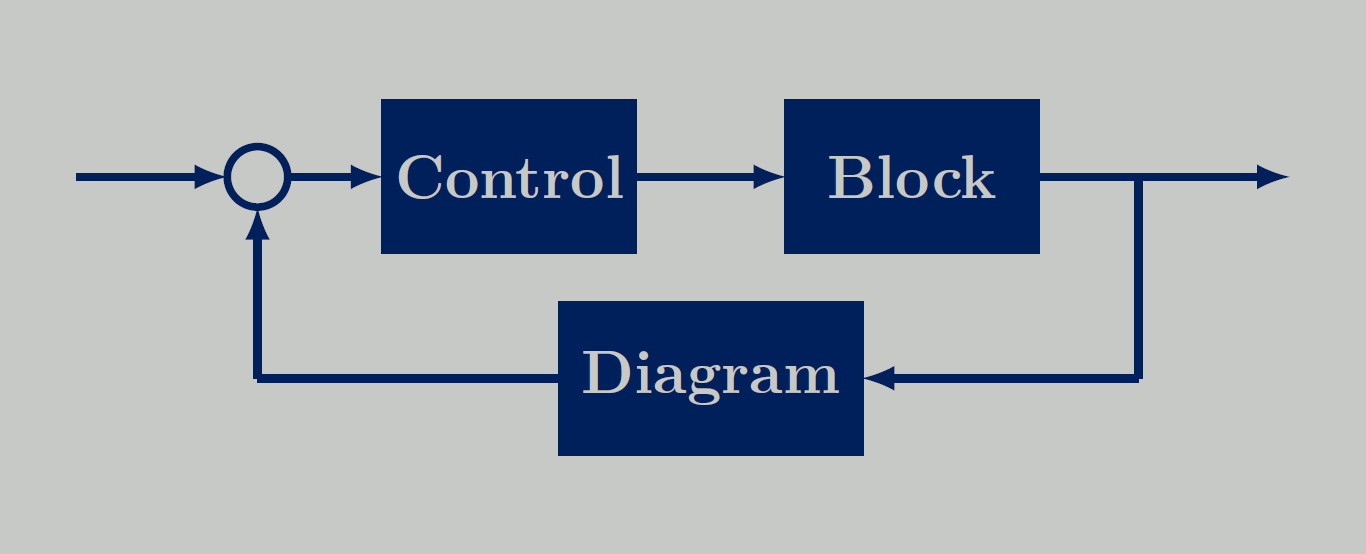
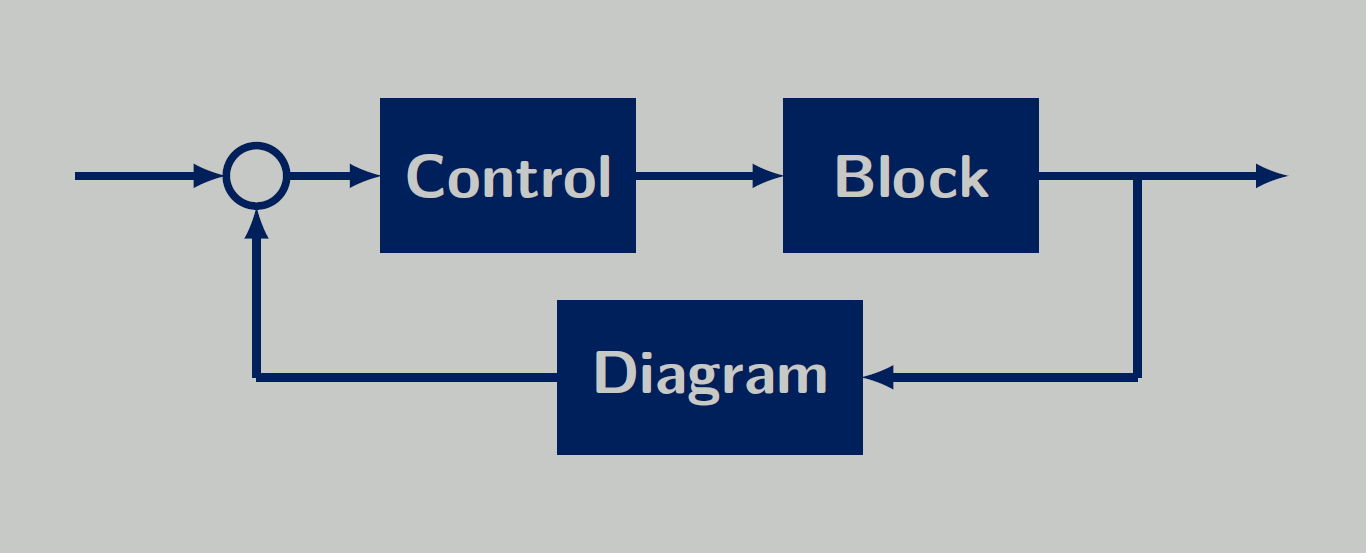
font changeable

diff --git a/control_block_diagram/components/text/text.py b/control_block_diagram/components/text/text.py
@@ -58,18 +58,20 @@ class Text(Component):
         # set the configuration of the text
         self._color = text_configuration.get('text_color', self._configuration['text_color'])
         self._font_size = text_configuration.get('fontsize', self._configuration['fontsize'])
+        self._font = text_configuration.get('font', self._configuration['font'])
         self._rotate = text_configuration.get('rotate', 0)
         self._options = {'align': 'center', 'text width': str(self._size[0]) + 'cm', 'text': self._color,
-                         'font': self._font_size, 'rotate': self._rotate}
+                         'font': self._font_size + self._font, 'rotate': self._rotate}
 
     def define(self, **kwargs):
         """Function to change position and visual representation of the text afterwards"""
         self._position = kwargs.get('position', self._position)
         self._size = kwargs.get('size', self._size)
         self._font_size = kwargs.get('fontsize', self._font_size)
+        self._font = kwargs.get('font', self._font)
         self._rotate = kwargs.get('rotate', self._rotate)
         self._options = {'align': 'center', 'text width': str(self._size[0]) + 'cm', 'text': self._color,
-                         'font': self._font_size, 'rotate': self._rotate}
+                         'font': self._font_size + self._font, 'rotate': self._rotate}
 
         top = self._position[1] + self._size[1] / 2
         self._text_position = [TikZCoordinate(self._position.x, top - (i + 1) / (self._len_text + 1) * self._size[1])
@@ -106,4 +108,5 @@ class Text(Component):
         """Funtion to add the Latex code to the Latex document"""
         for text, pos in zip(self._text, self._text_position):
             if text != '':
+                print(self._options['font'])
                 pic.append(TikZNode(text=text, at=pos, handle='box', options=TikZOptions(**self._options)))

diff --git a/control_block_diagram/control_diagram.py b/control_block_diagram/control_diagram.py
@@ -46,6 +46,7 @@ class ControllerDiagram:
         self._configuration['line_width'] = self._configuration_input.get('line_width', 'thick')
         self._configuration['line_style'] = self._configuration_input.get('line_style', 'solid')
         self._configuration['fontsize'] = self._configuration_input.get('fontsize', r'\normalsize')
+        self._configuration['font'] = self._configuration_input.get('font', r'')
         self._configuration['text_color'] = self._configuration_input.get('text_color',
                                                                           self._configuration['text_color'])
 

diff --git a/README.md b/README.md
@@ -14,7 +14,7 @@ usual building blocks, i.e., PI-Controllers, Adders, Multiplier. It is also poss
 define own blocks. 
 
 ## Getting Started
-A basic routine is as simple as
+A basic routine is as simple as:
 ```py
 from control_block_diagram import ControllerDiagram
 from control_block_diagram import Point, Box, Connection
@@ -26,6 +26,7 @@ if __name__ == '__main__':
     box_control = Box(Point(0, 0), text='Control')
     box_block = Box(box_control.position.add_x(3), text='Block')
     box_diagram = Box(box_block.position.add_x(3), text='Diagram')
+
     Connection.connect(box_control.output, box_block.input)
     Connection.connect(box_block.output, box_diagram.input)
     
@@ -47,7 +48,7 @@ There are some examples in the examples folder:
 ## Installation
 
 
-- Install from Github source:
+- Install from GitHub source:
 
 ```
 git clone git@github.com:upb-lea/control-block-diagram.git 
